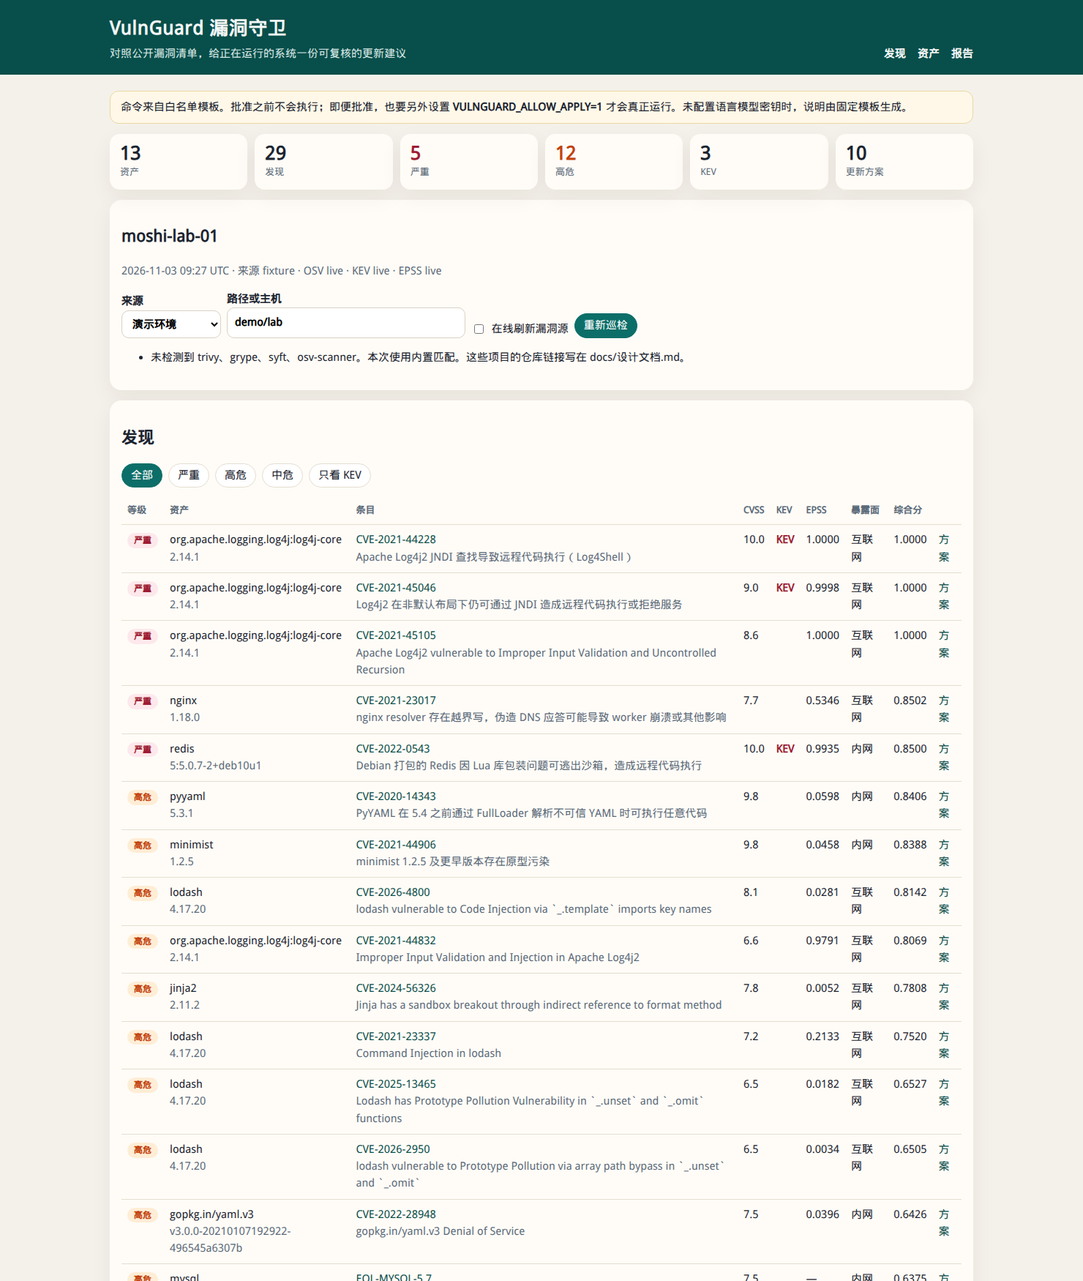
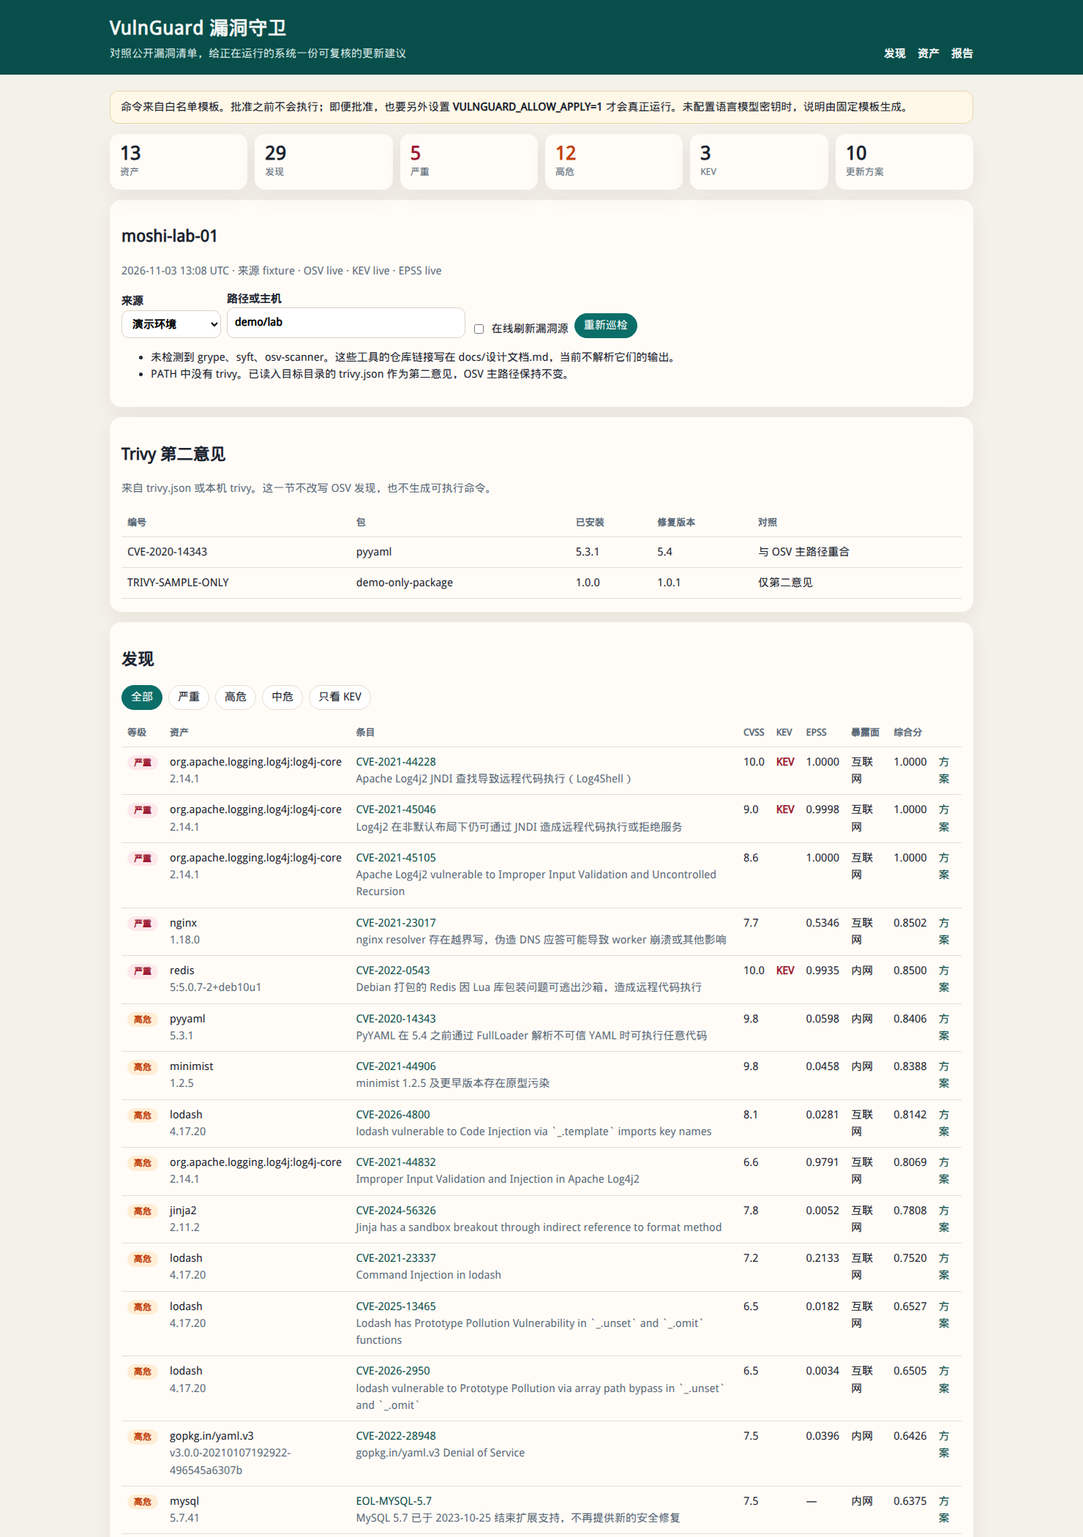
Refresh sample reports and make Compose scan the old containers.
The VulnGuard image now ships a Docker client and reads labeled containers through the mounted socket, logging the source it actually used. Demo commands write to a gitignored directory so committed samples stay stable.

diff --git a/artifacts/demo-run/report.html b/artifacts/demo-run/report.html
@@ -2,7 +2,7 @@
 <html lang="zh-CN">
 <head>
 <meta charset="utf-8">
-<title>VulnGuard 报告 scan-20261103T092758Z</title>
+<title>VulnGuard 报告 scan-20261103T130827Z</title>
 <style>
 body { margin: 0; background: #f3f0e8; color: #1a2332; font: 15px/1.6 "WenQuanYi Micro Hei", "Droid Sans Fallback", sans-serif; }
 main { width: min(1080px, calc(100% - 32px)); margin: 24px auto 48px; }
@@ -23,7 +23,7 @@ pre { white-space: pre-wrap; font: inherit; }
 <body>
 <main>
 <h1>VulnGuard 巡检报告</h1>
-<p class="meta">moshi-lab-01 · 2026-11-03 09:27 UTC · fixture</p>
+<p class="meta">moshi-lab-01 · 2026-11-03 13:08 UTC · fixture</p>
 <section class="cards">
 <div class="card"><b>13</b>资产</div>
 <div class="card"><b>5</b>严重</div>
@@ -37,6 +37,8 @@ pre { white-space: pre-wrap; font: inherit; }
 <tr><td class='band critical'>严重</td><td>org.apache.logging.log4j:log4j-core<br><span>2.14.1</span></td><td>CVE-2021-44228<br><span>Apache Log4j2 JNDI 查找导致远程代码执行（Log4Shell）</span></td><td>10.0</td><td>KEV</td><td>1.0000</td><td>互联网</td><td>1.0000</td></tr><tr><td class='band critical'>严重</td><td>org.apache.logging.log4j:log4j-core<br><span>2.14.1</span></td><td>CVE-2021-45046<br><span>Log4j2 在非默认布局下仍可通过 JNDI 造成远程代码执行或拒绝服务</span></td><td>9.0</td><td>KEV</td><td>0.9998</td><td>互联网</td><td>1.0000</td></tr><tr><td class='band critical'>严重</td><td>org.apache.logging.log4j:log4j-core<br><span>2.14.1</span></td><td>CVE-2021-45105<br><span>Apache Log4j2 vulnerable to Improper Input Validation and Uncontrolled Recursion</span></td><td>8.6</td><td></td><td>1.0000</td><td>互联网</td><td>1.0000</td></tr><tr><td class='band critical'>严重</td><td>nginx<br><span>1.18.0</span></td><td>CVE-2021-23017<br><span>nginx resolver 存在越界写，伪造 DNS 应答可能导致 worker 崩溃或其他影响</span></td><td>7.7</td><td></td><td>0.5346</td><td>互联网</td><td>0.8502</td></tr><tr><td class='band critical'>严重</td><td>redis<br><span>5:5.0.7-2+deb10u1</span></td><td>CVE-2022-0543<br><span>Debian 打包的 Redis 因 Lua 库包装问题可逃出沙箱，造成远程代码执行</span></td><td>10.0</td><td>KEV</td><td>0.9935</td><td>内网</td><td>0.8500</td></tr><tr><td class='band high'>高危</td><td>pyyaml<br><span>5.3.1</span></td><td>CVE-2020-14343<br><span>PyYAML 在 5.4 之前通过 FullLoader 解析不可信 YAML 时可执行任意代码</span></td><td>9.8</td><td></td><td>0.0598</td><td>内网</td><td>0.8406</td></tr><tr><td class='band high'>高危</td><td>minimist<br><span>1.2.5</span></td><td>CVE-2021-44906<br><span>minimist 1.2.5 及更早版本存在原型污染</span></td><td>9.8</td><td></td><td>0.0458</td><td>内网</td><td>0.8388</td></tr><tr><td class='band high'>高危</td><td>lodash<br><span>4.17.20</span></td><td>CVE-2026-4800<br><span>lodash vulnerable to Code Injection via `_.template` imports key names</span></td><td>8.1</td><td></td><td>0.0281</td><td>互联网</td><td>0.8142</td></tr><tr><td class='band high'>高危</td><td>org.apache.logging.log4j:log4j-core<br><span>2.14.1</span></td><td>CVE-2021-44832<br><span>Improper Input Validation and Injection in Apache Log4j2</span></td><td>6.6</td><td></td><td>0.9791</td><td>互联网</td><td>0.8069</td></tr><tr><td class='band high'>高危</td><td>jinja2<br><span>2.11.2</span></td><td>CVE-2024-56326<br><span>Jinja has a sandbox breakout through indirect reference to format method</span></td><td>7.8</td><td></td><td>0.0052</td><td>互联网</td><td>0.7808</td></tr><tr><td class='band high'>高危</td><td>lodash<br><span>4.17.20</span></td><td>CVE-2021-23337<br><span>Command Injection in lodash</span></td><td>7.2</td><td></td><td>0.2133</td><td>互联网</td><td>0.7520</td></tr><tr><td class='band high'>高危</td><td>lodash<br><span>4.17.20</span></td><td>CVE-2025-13465<br><span>Lodash has Prototype Pollution Vulnerability in `_.unset` and `_.omit` functions</span></td><td>6.5</td><td></td><td>0.0182</td><td>互联网</td><td>0.6527</td></tr><tr><td class='band high'>高危</td><td>lodash<br><span>4.17.20</span></td><td>CVE-2026-2950<br><span>lodash vulnerable to Prototype Pollution via array path bypass in `_.unset` and `_.omit`</span></td><td>6.5</td><td></td><td>0.0034</td><td>互联网</td><td>0.6505</td></tr><tr><td class='band high'>高危</td><td>gopkg.in/yaml.v3<br><span>v3.0.0-20210107192922-496545a6307b</span></td><td>CVE-2022-28948<br><span>gopkg.in/yaml.v3 Denial of Service</span></td><td>7.5</td><td></td><td>0.0396</td><td>内网</td><td>0.6426</td></tr><tr><td class='band high'>高危</td><td>mysql<br><span>5.7.41</span></td><td>EOL-MYSQL-5.7<br><span>MySQL 5.7 已于 2023-10-25 结束扩展支持，不再提供新的安全修复</span></td><td>7.5</td><td></td><td>—</td><td>内网</td><td>0.6375</td></tr><tr><td class='band high'>高危</td><td>express<br><span>4.17.1</span></td><td>CVE-2024-29041<br><span>Express.js Open Redirect in malformed URLs</span></td><td>6.1</td><td></td><td>0.0079</td><td>互联网</td><td>0.6112</td></tr><tr><td class='band high'>高危</td><td>mysql<br><span>5.7.41</span></td><td>CVE-2023-21980<br><span>MySQL Server 客户端组件漏洞，成功利用可能导致服务器被接管</span></td><td>7.1</td><td></td><td>0.0083</td><td>内网</td><td>0.6046</td></tr><tr><td class='band medium'>中危</td><td>redis<br><span>5:5.0.7-2+deb10u1</span></td><td>EOL-REDIS-5.0<br><span>Redis 5.0 已退出上游维护，5.0.14 之后没有新的安全发布</span></td><td>6.5</td><td></td><td>—</td><td>内网</td><td>0.5525</td></tr><tr><td class='band medium'>中危</td><td>org.apache.logging.log4j:log4j-core<br><span>2.14.1</span></td><td>CVE-2026-34480<br><span>Apache Log4j Core: Silent log event loss in XmlLayout due to unescaped XML 1.0 forbidden characters</span></td><td>5.5</td><td></td><td>0.0105</td><td>互联网</td><td>0.5516</td></tr><tr><td class='band medium'>中危</td><td>org.apache.logging.log4j:log4j-core<br><span>2.14.1</span></td><td>CVE-2025-68161<br><span>Apache Log4j does not verify the TLS hostname in its Socket Appender</span></td><td>5.5</td><td></td><td>0.0077</td><td>互联网</td><td>0.5512</td></tr><tr><td class='band medium'>中危</td><td>jinja2<br><span>2.11.2</span></td><td>CVE-2025-27516<br><span>Jinja2 vulnerable to sandbox breakout through attr filter selecting format method</span></td><td>5.5</td><td></td><td>0.0051</td><td>互联网</td><td>0.5508</td></tr><tr><td class='band medium'>中危</td><td>org.apache.logging.log4j:log4j-core<br><span>2.14.1</span></td><td>CVE-2026-34477<br><span>Apache Log4j Core: `verifyHostName` attribute silently ignored in TLS configuration</span></td><td>5.5</td><td></td><td>0.0056</td><td>互联网</td><td>0.5508</td></tr><tr><td class='band medium'>中危</td><td>org.apache.logging.log4j:log4j-core<br><span>2.14.1</span></td><td>CVE-2026-34479<br><span>Apache Log4j 1 to Log4j 2 bridge: silent log event loss in Log4j1XmlLayout due to unescaped XML 1.0 forbidden characters</span></td><td>5.5</td><td></td><td>0.0053</td><td>互联网</td><td>0.5508</td></tr><tr><td class='band medium'>中危</td><td>nginx<br><span>1.18.0</span></td><td>EOL-NGINX-1.18<br><span>nginx 1.18 已不在官方当前稳定分支</span></td><td>5.5</td><td></td><td>—</td><td>互联网</td><td>0.5500</td></tr><tr><td class='band medium'>中危</td><td>jinja2<br><span>2.11.2</span></td><td>CVE-2024-34064<br><span>Jinja vulnerable to HTML attribute injection when passing user input as keys to xmlattr filter</span></td><td>5.4</td><td></td><td>0.0098</td><td>互联网</td><td>0.5415</td></tr><tr><td class='band medium'>中危</td><td>jinja2<br><span>2.11.2</span></td><td>CVE-2024-22195<br><span>Jinja vulnerable to HTML attribute injection when passing user input as keys to xmlattr filter</span></td><td>5.4</td><td></td><td>0.0089</td><td>互联网</td><td>0.5413</td></tr><tr><td class='band medium'>中危</td><td>lodash<br><span>4.17.20</span></td><td>CVE-2020-28500<br><span>Regular Expression Denial of Service (ReDoS) in lodash</span></td><td>5.3</td><td></td><td>0.0734</td><td>互联网</td><td>0.5410</td></tr><tr><td class='band medium'>中危</td><td>jinja2<br><span>2.11.2</span></td><td>CVE-2020-28493<br><span>Regular Expression Denial of Service (ReDoS) in Jinja2</span></td><td>5.3</td><td></td><td>0.0359</td><td>互联网</td><td>0.5354</td></tr><tr><td class='band medium'>中危</td><td>express<br><span>4.17.1</span></td><td>CVE-2024-43796<br><span>express vulnerable to XSS via response.redirect()</span></td><td>5.0</td><td></td><td>0.0049</td><td>互联网</td><td>0.5007</td></tr>
 </tbody>
 </table>
+<h2>Trivy 第二意见</h2>
+<p>下表是第二意见，不进入更新方案。</p><table><thead><tr><th>编号</th><th>包</th><th>修复版本</th><th>严重性</th><th>对照</th></tr></thead><tbody><tr><td>CVE-2020-14343</td><td>pyyaml 5.3.1</td><td>5.4</td><td>CRITICAL</td><td>与 OSV 主路径重合</td></tr><tr><td>TRIVY-SAMPLE-ONLY</td><td>demo-only-package 1.0.0</td><td>1.0.1</td><td>LOW</td><td>仅第二意见</td></tr></tbody></table>
 <h2>更新方案</h2>
 <article><h3>更新 nginx 1.18.0</h3><p>建议 24 小时内处理。目标 不低于 1.20.1 的现行 stable。</p><pre>### 结论
 nginx 当前版本 1.18.0，所在位置 nginx/1.18.0，暴露面为互联网。本组最高等级为严重。建议 24 小时内处理。

diff --git a/artifacts/trivy-live/report.html b/artifacts/trivy-live/report.html
@@ -2,7 +2,7 @@
 <html lang="zh-CN">
 <head>
 <meta charset="utf-8">
-<title>VulnGuard 报告 scan-20261103T095754Z</title>
+<title>VulnGuard 报告 scan-20261103T130837Z</title>
 <style>
 body { margin: 0; background: #f3f0e8; color: #1a2332; font: 15px/1.6 "WenQuanYi Micro Hei", "Droid Sans Fallback", sans-serif; }
 main { width: min(1080px, calc(100% - 32px)); margin: 24px auto 48px; }
@@ -23,7 +23,7 @@ pre { white-space: pre-wrap; font: inherit; }
 <body>
 <main>
 <h1>VulnGuard 巡检报告</h1>
-<p class="meta">moshi-lab-01 · 2026-11-03 09:57 UTC · fixture</p>
+<p class="meta">moshi-lab-01 · 2026-11-03 13:08 UTC · fixture</p>
 <section class="cards">
 <div class="card"><b>13</b>资产</div>
 <div class="card"><b>5</b>严重</div>

diff --git a/artifacts/trivy-opinion/report.html b/artifacts/trivy-opinion/report.html
@@ -2,7 +2,7 @@
 <html lang="zh-CN">
 <head>
 <meta charset="utf-8">
-<title>VulnGuard 报告 scan-20261103T095713Z</title>
+<title>VulnGuard 报告 scan-20261103T130827Z</title>
 <style>
 body { margin: 0; background: #f3f0e8; color: #1a2332; font: 15px/1.6 "WenQuanYi Micro Hei", "Droid Sans Fallback", sans-serif; }
 main { width: min(1080px, calc(100% - 32px)); margin: 24px auto 48px; }
@@ -23,7 +23,7 @@ pre { white-space: pre-wrap; font: inherit; }
 <body>
 <main>
 <h1>VulnGuard 巡检报告</h1>
-<p class="meta">moshi-lab-01 · 2026-11-03 09:57 UTC · fixture</p>
+<p class="meta">moshi-lab-01 · 2026-11-03 13:08 UTC · fixture</p>
 <section class="cards">
 <div class="card"><b>13</b>资产</div>
 <div class="card"><b>5</b>严重</div>

diff --git a/artifacts/rpm-apk/report.html b/artifacts/rpm-apk/report.html
@@ -2,7 +2,7 @@
 <html lang="zh-CN">
 <head>
 <meta charset="utf-8">
-<title>VulnGuard 报告 scan-20261103T095713Z</title>
+<title>VulnGuard 报告 scan-20261103T130827Z</title>
 <style>
 body { margin: 0; background: #f3f0e8; color: #1a2332; font: 15px/1.6 "WenQuanYi Micro Hei", "Droid Sans Fallback", sans-serif; }
 main { width: min(1080px, calc(100% - 32px)); margin: 24px auto 48px; }
@@ -23,7 +23,7 @@ pre { white-space: pre-wrap; font: inherit; }
 <body>
 <main>
 <h1>VulnGuard 巡检报告</h1>
-<p class="meta">rpm-apk-lab · 2026-11-03 09:57 UTC · fixture</p>
+<p class="meta">rpm-apk-lab · 2026-11-03 13:08 UTC · fixture</p>
 <section class="cards">
 <div class="card"><b>6</b>资产</div>
 <div class="card"><b>2</b>严重</div>

diff --git a/vulnguard/inventory.py b/vulnguard/inventory.py
@@ -3,8 +3,10 @@
 from __future__ import annotations
 
 import json
+import os
 import re
 import shlex
+import time
 from pathlib import Path
 from typing import Callable
 
@@ -85,11 +87,51 @@ def collect_local(manifest_root: Path, runner: Runner | None = None) -> tuple[li
     return merged, warnings, "localhost"
 
 
-def collect_docker(runner: Runner | None = None) -> tuple[list[Asset], list[str], str]:
+def collect_docker(
+    runner: Runner | None = None,
+    *,
+    attempts: int = 1,
+    pause: float = 2.0,
+) -> tuple[list[Asset], list[str], str]:
+    """读取正在运行的容器。attempts>1 时在守护进程或容器尚未就绪时重试。"""
+    last_error = "docker ps 没有返回正在运行的容器。"
+    failed = False
+    assets: list[Asset] = []
+    warnings: list[str] = []
+    host = "docker"
+    for attempt in range(1, max(attempts, 1) + 1):
+        try:
+            assets, warnings, host = _collect_docker_once(runner)
+            failed = False
+        except RuntimeError as exc:
+            failed = True
+            last_error = str(exc)
+            assets, warnings, host = [], [last_error], "docker"
+        if assets:
+            if attempt > 1:
+                warnings.append(f"第 {attempt} 次连接 Docker 后采集到容器。")
+            return assets, warnings, host
+        if attempt < attempts:
+            time.sleep(pause)
+    if failed or attempts > 1:
+        raise RuntimeError(last_error if failed else "docker ps 没有返回正在运行的容器。")
+    return assets, warnings, host
+
+
+def _docker_ps_argv() -> list[str]:
+    argv = ["docker", "ps"]
+    docker_filter = os.environ.get("VULNGUARD_DOCKER_PS_FILTER", "").strip()
+    if docker_filter:
+        argv.extend(["--filter", docker_filter])
+    argv.extend(["--format", "{{.ID}}\t{{.Names}}\t{{.Image}}"])
+    return argv
+
+
+def _collect_docker_once(runner: Runner | None) -> tuple[list[Asset], list[str], str]:
     run = runner or _subprocess_runner
-    code, out, err = run(["docker", "ps", "--format", "{{.ID}}\t{{.Names}}\t{{.Image}}"])
+    code, out, err = run(_docker_ps_argv())
     if code != 0:
-        raise RuntimeError(err.strip() or "docker ps 失败。当前环境可能没有 Docker 守护进程。")
+        raise RuntimeError(err.strip() or "docker ps 失败。当前环境可能没有 Docker 守护进程或客户端。")
     warnings: list[str] = []
     assets: list[Asset] = []
     rows = [line for line in out.splitlines() if line.strip()]

diff --git a/tests/test_os_and_trivy.py b/tests/test_os_and_trivy.py
@@ -1,7 +1,7 @@
 import json
 from pathlib import Path
 
-from vulnguard.inventory import collect_fixture, collect_local, parse_apk, parse_remote_inventory, parse_rpm
+from vulnguard.inventory import collect_docker, collect_fixture, collect_local, parse_apk, parse_remote_inventory, parse_rpm
 from vulnguard.paths import repo_root
 from vulnguard.pipeline import run_scan
 from vulnguard.trivy import annotate_overlap, parse_trivy_json, relation_label
@@ -40,6 +40,34 @@ nginx-1.18.0-r1
 """
     assets = parse_remote_inventory(text, "ssh:demo")
     assert {asset.ecosystem for asset in assets} == {"rpm", "Alpine"}
+
+
+def test_docker_filter_and_retry(monkeypatch):
+    monkeypatch.setenv("VULNGUARD_DOCKER_PS_FILTER", "label=vulnguard.scan=true")
+    calls = {"ps": 0}
+
+    def runner(argv):
+        if argv[:2] == ["docker", "ps"]:
+            calls["ps"] += 1
+            assert argv[2:4] == ["--filter", "label=vulnguard.scan=true"]
+            if calls["ps"] == 1:
+                return 1, "", "Cannot connect to the Docker daemon"
+            return 0, "abc\tedge-nginx\tnginx:1.18.0\n", ""
+        if argv[:4] == ["docker", "exec", "abc", "nginx"]:
+            return 0, "nginx version: nginx/1.18.0\n", ""
+        return 1, "", "missing"
+
+    assets, warnings, _host = collect_docker(runner, attempts=3, pause=0)
+    assert calls["ps"] == 2
+    assert any(asset.name == "nginx" and asset.source == "docker:edge-nginx" for asset in assets)
+    assert any("第 2 次" in item for item in warnings)
+
+
+def test_scan_prints_source(capsys):
+    from vulnguard.pipeline import run_scan
+
+    run_scan("fixture", "demo/samples/rpm-apk", online=False)
+    assert "巡检来源=fixture" in capsys.readouterr().out
 
 
 def test_local_skips_missing_package_managers():

diff --git a/vulnguard/cli.py b/vulnguard/cli.py
@@ -12,6 +12,9 @@ from vulnguard.pipeline import scan_and_write
 from vulnguard.remediate import preview
 from vulnguard.store import Store, plan_from_dict
 
+# 日常演示写到被 git 忽略的目录。已提交的样例在 artifacts/，要用 --out 显式覆盖。
+DEFAULT_OUT = "runtime/reports/latest"
+
 
 def main() -> None:
     parser = argparse.ArgumentParser(prog="vulnguard", description="对照公开漏洞清单，生成可复核的更新建议")
@@ -22,7 +25,7 @@ def main() -> None:
 
     demo = sub.add_parser("demo", help="用演示环境跑一遍并写出样例报告")
     demo.add_argument("--online", action="store_true", help="访问 OSV、KEV 和 EPSS")
-    demo.add_argument("--out", default="artifacts/demo-run")
+    demo.add_argument("--out", default=DEFAULT_OUT)
     demo.add_argument("--db", default="runtime/vulnguard.db")
 
     serve = sub.add_parser("serve", help="启动 Web 界面")
@@ -118,6 +121,6 @@ def _add_scan_args(parser: argparse.ArgumentParser) -> None:
     parser.add_argument("--source", choices=["auto", "fixture", "local", "docker", "ssh"], default="fixture")
     parser.add_argument("--path", default="demo/lab", help="fixture/local 目录，或 SSH 主机")
     parser.add_argument("--ssh-user", default=None)
-    parser.add_argument("--out", default="artifacts/demo-run")
+    parser.add_argument("--out", default=DEFAULT_OUT)
     parser.add_argument("--db", default="runtime/vulnguard.db")
     parser.add_argument("--online", action="store_true")

diff --git a/vulnguard/pipeline.py b/vulnguard/pipeline.py
@@ -45,7 +45,7 @@ def run_scan(
     elif source == "local":
         assets, warnings, host = collect_local(path)
     elif source == "docker":
-        assets, warnings, host = collect_docker()
+        assets, warnings, host = collect_docker(attempts=8, pause=2)
     elif source == "ssh":
         assets, warnings, host = collect_ssh(target, user=ssh_user, port=ssh_port)
     else:
@@ -67,6 +67,12 @@ def run_scan(
     feed_status = dict(feedset.status)
     feed_status["trivy"] = trivy_status
     stamp = datetime.now(timezone.utc).strftime("%Y%m%dT%H%M%SZ")
+    names = ", ".join(sorted({asset.host for asset in assets if asset.host})) or host
+    print(
+        f"巡检来源={chosen} 目标={target} 主机或容器={names} "
+        f"资产={len(assets)} 发现={len(findings)} Trivy={feed_status.get('trivy', 'off')}",
+        flush=True,
+    )
     return ScanResult(
         id=f"scan-{stamp}",
         created_at=datetime.now(timezone.utc).strftime("%Y-%m-%d %H:%M UTC"),

diff --git a/README.md b/README.md
@@ -31,7 +31,11 @@ python3 -m vulnguard serve
 
 `--online` 会访问 OSV、CISA KEV 和 FIRST EPSS。访问失败时自动改用 `vulnguard/data/` 里的快照，命令仍然成功。只想离线复现时去掉 `--online`。
 
-样例报告已经放在 `artifacts/demo-run/`，界面截图在 `artifacts/screenshots/`。
+`vulnguard demo` 和 `vulnguard scan` 默认把报告写到 `runtime/reports/latest/`。这个目录在 `.gitignore` 里，重复演示不会改动已提交文件。仓库里给阅卷看的样例仍在 `artifacts/demo-run/`，界面截图在 `artifacts/screenshots/`。要刷新样例时显式指定输出目录：
+
+```bash
+python3 -m vulnguard demo --online --out artifacts/demo-run
+```
 
 看 rpm/apk 夹具和 Trivy 第二意见：
 
@@ -53,20 +57,22 @@ python3 -m pytest -q
 
 ## 用 Docker 扫一套旧服务
 
-本仓库的开发环境没有 Docker 守护进程，所以提交的样例报告来自 `demo/lab` 这套固定资产。有 Docker 的机器可以：
+有 Docker 的机器可以：
 
 ```bash
 docker compose up --build
 ```
 
-Compose 会拉起 `nginx:1.18.0`、`redis:5.0.7`、`mysql:5.7.44` 和一个只携带清单、不安装旧依赖的应用容器，然后启动 VulnGuard。服务都绑在 `127.0.0.1`。界面在 http://127.0.0.1:8000 。
+Compose 拉起 `nginx:1.18.0`、`redis:5.0.7`、`mysql:5.7.44` 和一个只携带清单、不安装旧依赖的应用容器。VulnGuard 镜像里带有 Docker 客户端，并挂载宿主机的 `/var/run/docker.sock`。启动命令是 `--source docker`，只采集带 `vulnguard.scan=true` 标签的容器。容器日志里有一行 `巡检来源=docker`。界面在 http://127.0.0.1:8000 。
 
-Docker 扫到的 Redis 是官方镜像里的上游版本。CVE-2022-0543 是 Debian 打包问题，不会套到官方镜像上。要看这条 KEV，用默认的 `demo/lab`（Debian 10 的 `redis-server`）。
+`/scan/lab` 仍挂在容器里，供 Trivy 夹具使用；资产清单本身来自正在运行的旧容器，而不是 `demo/lab` 的 dpkg 节选。`nginx:1.18.0` 镜像里有 Debian 包，扫描会读到那个包版本（本环境是 `1.18.0-2~buster`）并保留 `nginx/1.18.0` 横幅。Redis 官方镜像报告上游版本 `5.0.7`，不是 Debian 包，不会命中 CVE-2022-0543。要看这条 KEV，用 `demo/lab`。MySQL 镜像是 `5.7.44`，会命中 5.7 生命周期，而不会命中只影响 5.7.41 及更早版本的 CVE-2023-21980。
+
+没有 Docker 守护进程时，不要用这条路径。`python3 -m vulnguard demo` 扫的是 `demo/lab`。
 
 ## 其他入口
 
 ```bash
-python3 -m vulnguard scan --source local --path . --online --out artifacts/local
+python3 -m vulnguard scan --source local --path . --online
 python3 -m vulnguard scan --source ssh --path 10.0.0.8 --ssh-user ubuntu
 python3 -m vulnguard serve --interval-hours 24 --scan-on-start --online
 python3 -m vulnguard approve plan-debian-redis-5-5-0-7-2-deb10u1 --approver 值班人甲 --comment "已核对回滚"
@@ -77,7 +83,7 @@ python3 -m vulnguard refresh-feeds
 定时也可以交给系统 cron，例如每天 02:00：
 
 ```bash
-0 2 * * * cd /opt/vulnguard && python3 -m vulnguard scan --source fixture --path demo/lab --online --out artifacts/nightly
+0 2 * * * cd /opt/vulnguard && python3 -m vulnguard scan --source fixture --path demo/lab --online --out runtime/reports/nightly
 ```
 
 ## 语言模型

diff --git a/ai-process/开发记录.md b/ai-process/开发记录.md
@@ -40,3 +40,4 @@
 1. 首轮实现：用 Python 单进程把采集、匹配、报告和界面放在一起。OSV 改用 `POST /v1/query`，因为 `querybatch` 只返回编号。CVE-2022-0543 只匹配 Debian 包。可执行命令与模型说明分开，白名单在执行前核对摘要。本环境没有 Docker 守护进程，可复现样例放在 `demo/lab`。
 2. 匹配打磨：同一 CVE 的 GHSA 与 `GO-` 记录合并，避免没有 CVSS 向量的那条把分数冲掉。nginx 的建议写成「不低于 1.20.1 的现行 stable」，而不是停在 1.21.0。修复版本取「每条公告的最低可用修复，再取能盖住全部条目的最大者」，Express 因此留在 4.20.0。
 3. 交卷前补充：README 写明已知局限。rpm 与 apk 做成只读采集，命令不存在就跳过。Trivy JSON 作为第二意见附在报告中，不替换 OSV，也不进入可执行方案。本环境下载并运行了 Trivy 0.76.1，对 `demo/lab/app` 的输出在 `demo/trivy/live-fs.json`，与夹具合并后的报告在 `artifacts/trivy-live/`。二进制不进仓库；没有 `trivy` 时仍可读 `demo/lab/trivy.json`。
+4. 样例与 Compose：`artifacts/demo-run` 按带 Trivy 第二意见的当前代码重新生成。日常 `vulnguard demo` 改写到 `runtime/reports/`，避免改到已提交样例。Compose 镜像安装 Docker 客户端并挂载套接字，`--source docker` 只扫带 `vulnguard.scan=true` 的旧容器，日志打印 `巡检来源=docker`。
